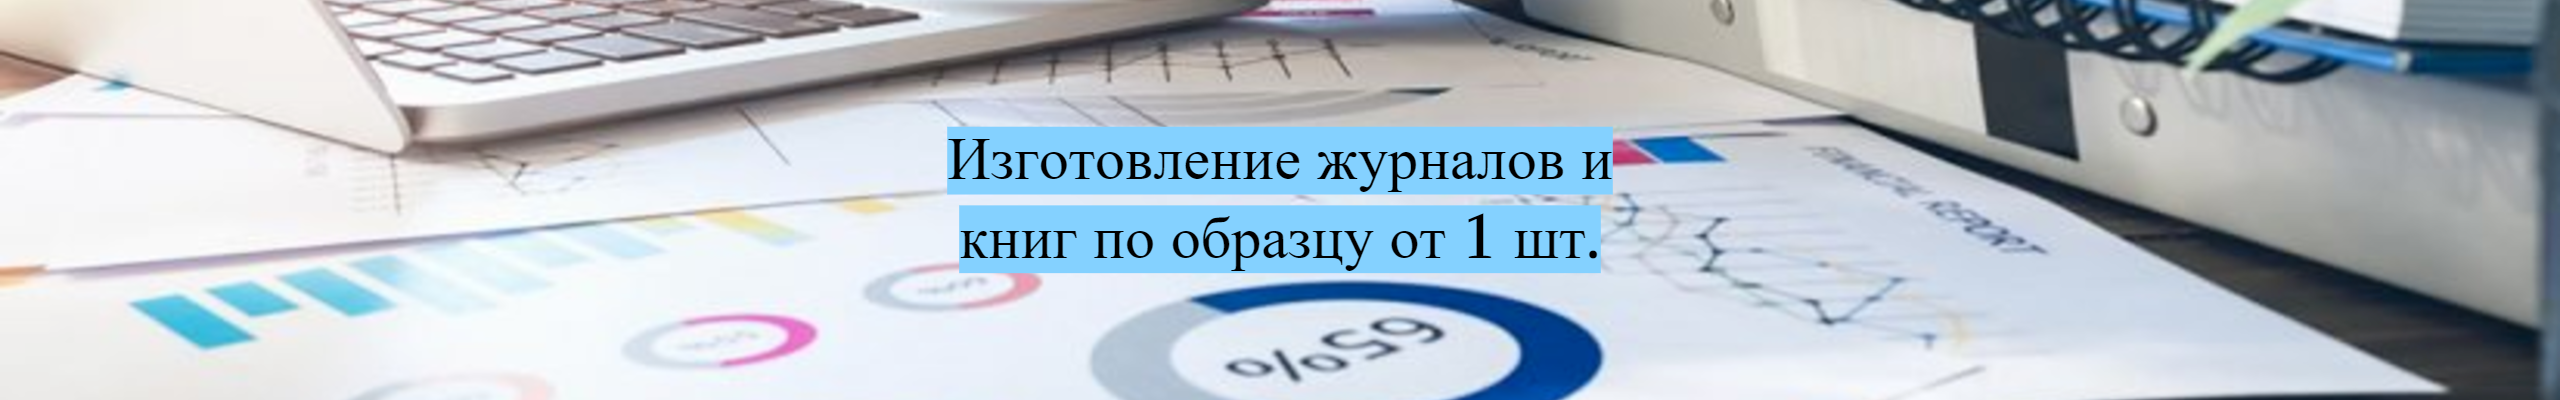
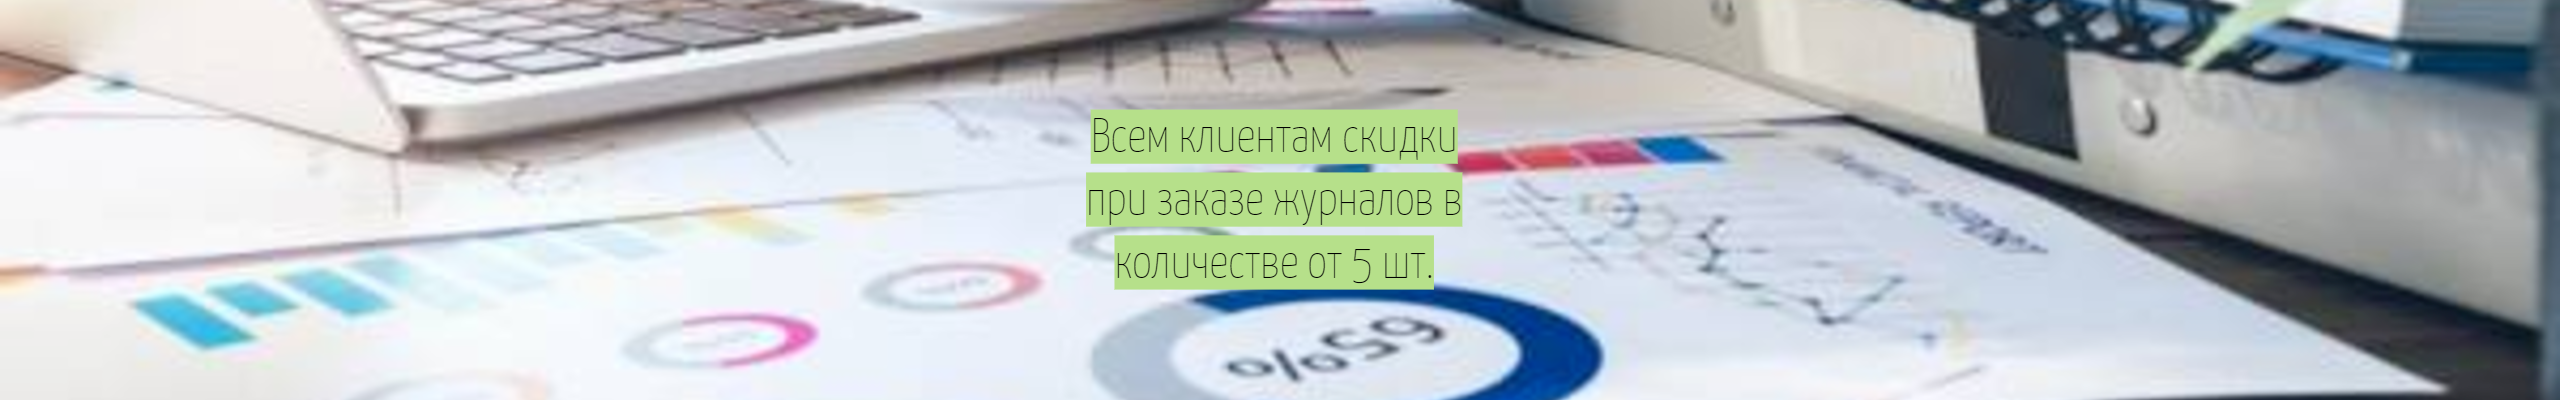
updated slides + fonts

diff --git a/src/main/webapp/resources/css/common.css b/src/main/webapp/resources/css/common.css
@@ -491,18 +491,19 @@ th {
 }
 
 .advantages-table tr td {
-    font-family: 'Josefin Sans', Helvetica, Arial, sans-serif;
+    font-size: x-large;
+    font-family: Arial Narrow, sans-serif;
 }
 
 .prices-table {
-    font-size: large;
+    font-size: x-large;
     width: 50%;
     margin-left: 10%;
 }
 
 .prices-table tr td {
     border: 3px solid rgba(0, 0, 0, 0.51);
-    font-family: 'Josefin Sans', Helvetica, Arial, sans-serif;
+    font-family: Arial Narrow, sans-serif;
 }
 
 .prices-table tr th {
@@ -514,6 +515,7 @@ th {
 }
 
 .prices-header {
+    font-size: xx-large;
     display: inline;
     margin-left: 0;
 }
